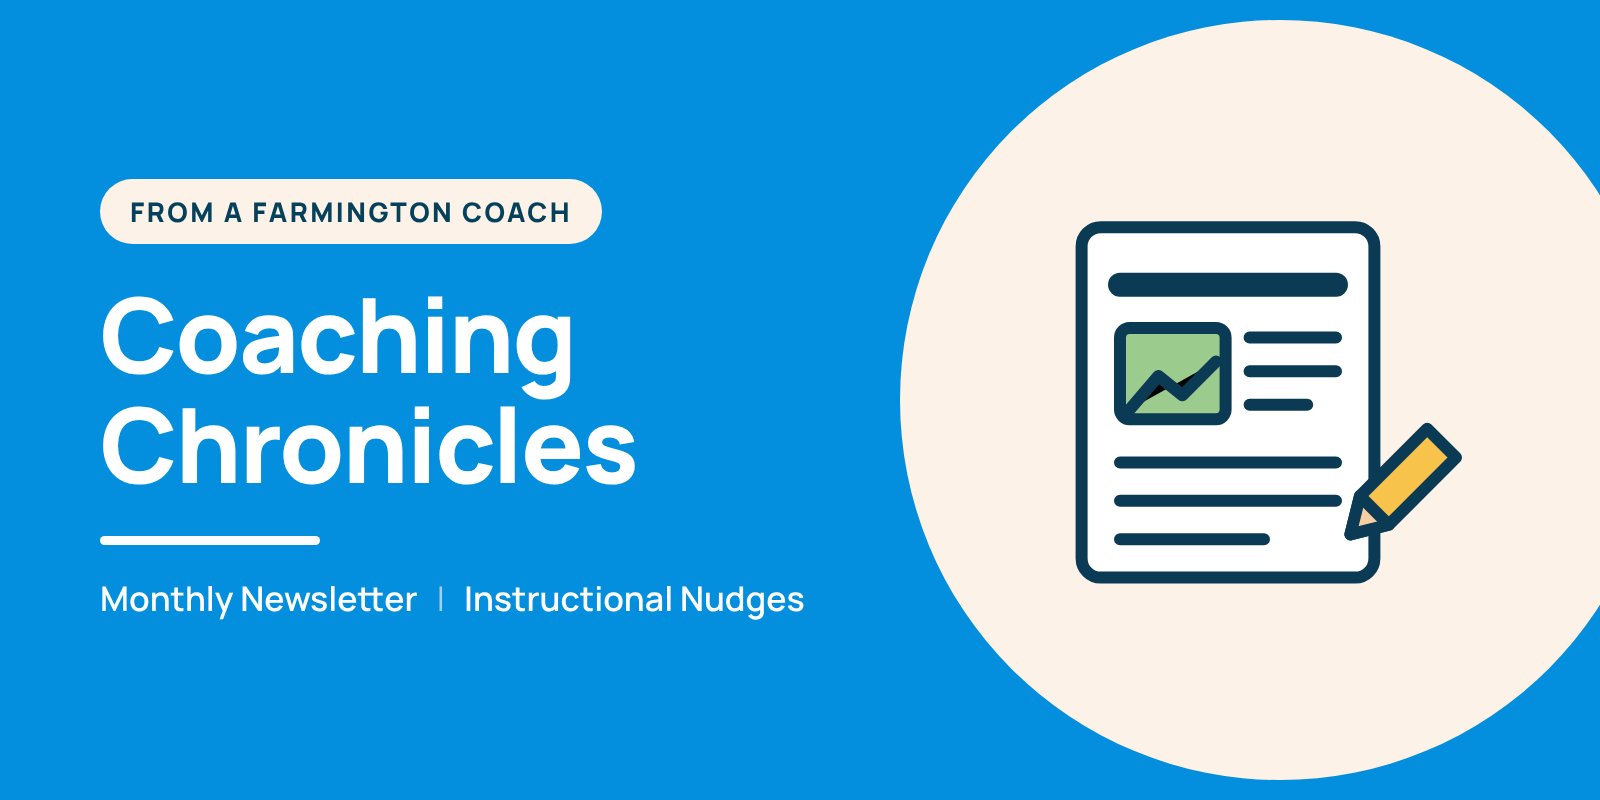
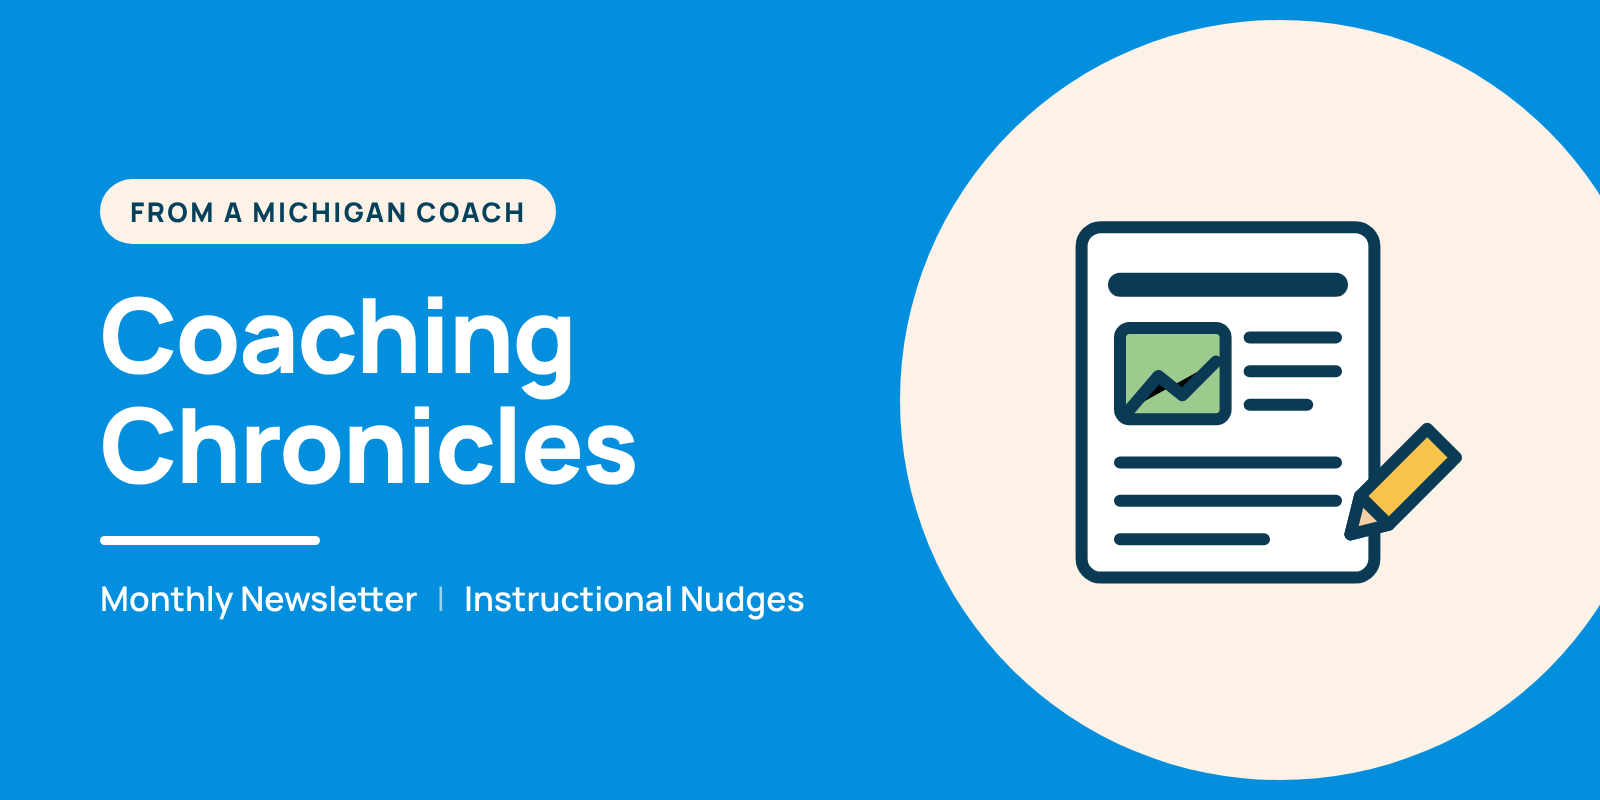
Coaching Chronicles: say Michigan coach instead of Farmington
Claude-Session: https://claude.ai/code/session_01Fa84FJe8karcorQ6e9iZmP

Changed region(s): [[0.1562, 0.2188, 0.375, 0.3125]]

diff --git a/index.html b/index.html
@@ -892,7 +892,7 @@ const COLLECTIONS = [
  {id:"professional-learning", title:"Professional Learning", tag:"Teachers Learning Together", blurb:"Learning walks, coaching, peer visits, and other ways educators grow together", tone:"sage", icon:"people", leaders:true,
   byTag:["Professional Learning","Learning Walks","Collective Practice","Teacher As Professional","Coaching"],
   stories:["opening-the-classroom-door","seeing-the-big-picture","seeing-classrooms-differently"]},
- {id:"coaching-chronicles", title:"Coaching Chronicles", tag:"From a Farmington Coach", blurb:"A monthly newsletter from Farmington coach Monica: one Engagement Blueprint move, real classroom photos, and a nudge to try", tone:"blue", icon:"doc", leaders:true,
+ {id:"coaching-chronicles", title:"Coaching Chronicles", tag:"From a Michigan Coach", blurb:"A monthly newsletter from Michigan coach Monica: one Engagement Blueprint move, real classroom photos, and a nudge to try", tone:"blue", icon:"doc", leaders:true,
   stories:[], resources:COACHING_CHRONICLES.map(x=>x.slug)},
  /* FPS Level-Up: any Farmington story tagged "Level-Up" (or "Level Up") in the sheet joins automatically. Link: exchange.learning-works.org/#c-fps-level-up */
  {id:"fps-level-up", title:"FPS Level-Up", tag:"Farmington Public Schools", blurb:"Farmington teachers get the opportunity to deepen their understanding of student-centered learning and the Positioning Blueprint", tone:"sky", icon:"people",

diff --git a/tools/covermaker/make_covers.py b/tools/covermaker/make_covers.py
@@ -26,7 +26,7 @@ COVERS = [
  ("covers/collections/school-models.png","sky","See It in Schools","Competency\u2011Based School Models","School Visits | Redesign","school-models"),
  ("covers/collections/engagement-blueprint.png","peach","Curated Collection","Explore the Engagement Blueprint","Guides | Stories","engagement-blueprint"),
  ("covers/collections/coaching-conversation.png","sage","Curated Collection","Coaching Conversation","Stories to Talk About","coaching-conversation"),
- ("covers/collections/coaching-chronicles.png","blue","From a Farmington Coach","Coaching Chronicles","Monthly Newsletter | Instructional Nudges","coaching-chronicles"),
+ ("covers/collections/coaching-chronicles.png","blue","From a Michigan Coach","Coaching Chronicles","Monthly Newsletter | Instructional Nudges","coaching-chronicles"),
  ("covers/69-The-Jigsaw-Putting-the-Pieces-Together.png","peach","Participation Structures","The Jigsaw","One-Pager | Small Groups","jigsaw"),
  ("covers/70-Hope-Is-Not-a-Strategy-Designing-Share-Outs-So-Everyone-Thinks.png","sky","Participation Structures","Hope Is Not a Strategy","One-Pager | Share-Outs","share-outs"),
  ("covers/71-No-More-Back-to-Back-Presentations-A-Better-Way-to-Share-Out.png","orange","Participation Structures","No More Back-to-Back Presentations","One-Pager | Share-Outs","gallery"),
